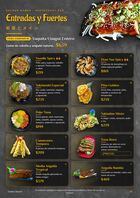
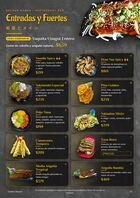
Foto nueva: Piña Golden
Claude-Session: https://claude.ai/code/session_019koabpyAAMnZPtrZYFtJVk

Changed region(s): [[0.5429, 0.3939, 0.6857, 0.5455]]

diff --git a/index.html b/index.html
@@ -53,10 +53,10 @@ for(let i=1;i<=N;i++){
   const d=document.createElement('div');
   d.className='page'+((i===1||i===N)?' hard':'');
   if(i===1||i===N) d.setAttribute('data-density','hard');
-  d.innerHTML=`<img src="p${pad(i)}.jpg?v=1794816012" alt="Página ${i} del menú Golden Ramen" ${i>4?'loading="lazy"':''}>`;
+  d.innerHTML=`<img src="p${pad(i)}.jpg?v=1794816090" alt="Página ${i} del menú Golden Ramen" ${i>4?'loading="lazy"':''}>`;
   book.appendChild(d);
   const t=document.createElement('button'); t.className='th'; t.setAttribute('aria-label','Ir a la página '+i);
-  t.innerHTML=`<img src="t${pad(i)}.jpg?v=1794816012" alt="">`; t.onclick=()=>pf&&pf.flip(i-1);
+  t.innerHTML=`<img src="t${pad(i)}.jpg?v=1794816090" alt="">`; t.onclick=()=>pf&&pf.flip(i-1);
   thumbs.appendChild(t);
 }
 let pf=null; let lastW=innerWidth; addEventListener('resize',()=>{ if(Math.abs(innerWidth-lastW)>80){ location.reload(); } });
